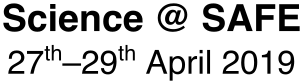
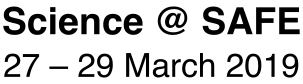
Idiot boy does not know what month S@S is in

diff --git a/views/default/science_at_safe.html b/views/default/science_at_safe.html
@@ -2,7 +2,7 @@
 
 <h1>Science at SAFE</h1>
 
-<p>We are holding a Science at SAFE meeting at Imperial College London, Silwood Park Campus from the 27th - 29th April 2019. The overarching aims for the meeting will be:</p>
+<p>We are holding a Science at SAFE meeting at Imperial College London, Silwood Park Campus from the 27th - 29th March 2019. The overarching aims for the meeting will be:</p>
 
 <ul>
 	<li> 
@@ -21,7 +21,7 @@
 
 <h3>Research presentations</h3>
 
-<p>On Wednesday 27th April, we will hold four sessions of five talks (10 minute talks with 2 minutes for questions). We have a preference for talks that will provide an overview of research in a particular area, but proposals for talks on any research at SAFE are welcomed. Poster boards will be available and we will have a poster session during the day.</p>
+<p>On Wednesday 27th March, we will hold four sessions of five talks (10 minute talks with 2 minutes for questions). We have a preference for talks that will provide an overview of research in a particular area, but proposals for talks on any research at SAFE are welcomed. Poster boards will be available and we will have a poster session during the day.</p>
 
 <p>We aim for a balance of early-career and established researchers in these presentations.</p>
 
